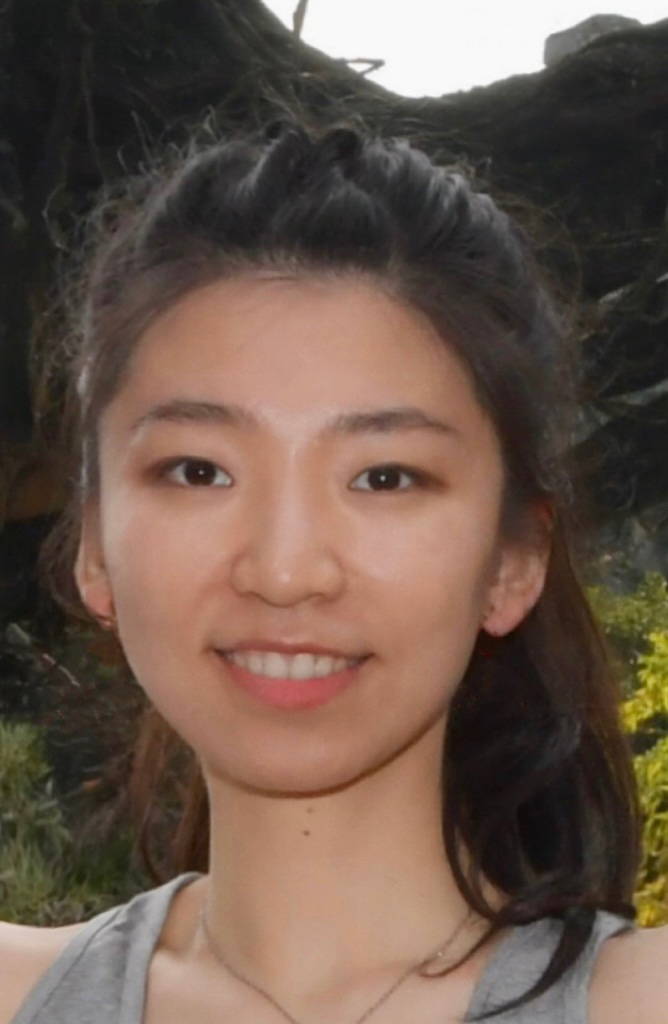
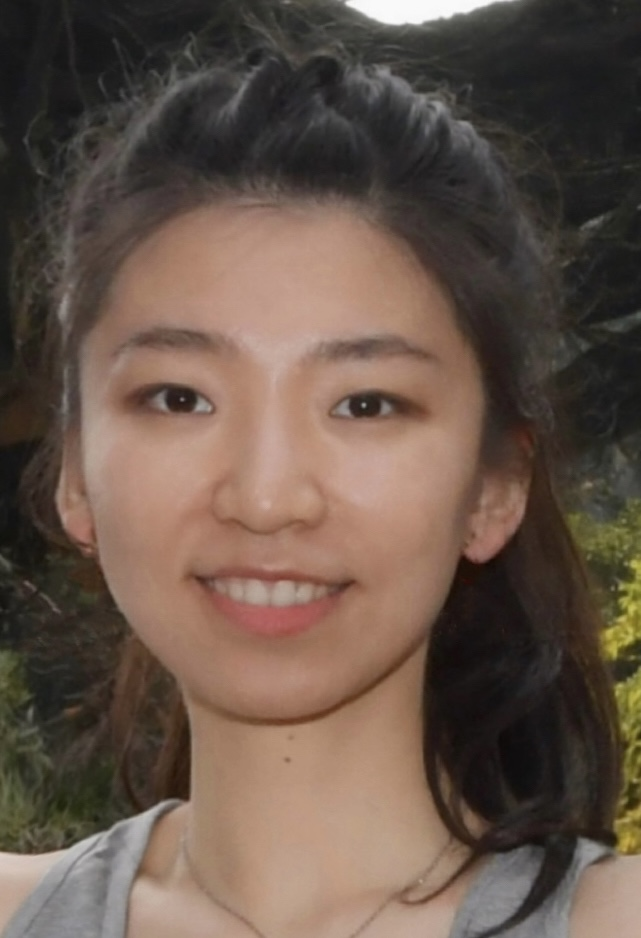
Updated

diff --git a/_pages/about.md b/_pages/about.md
@@ -6,7 +6,7 @@ permalink: /
 profile:
   align: right
   image: Jin2023.jpeg
-  image_circular: true # crops the image to make it circular
+  image_circular: false # crops the image to make it circular
   # address: >
   #   <p>Department of Biostatistics, Epidemiology and Bioinformatics
   #      University of Pennsylvania, Perelman School of Medicine
